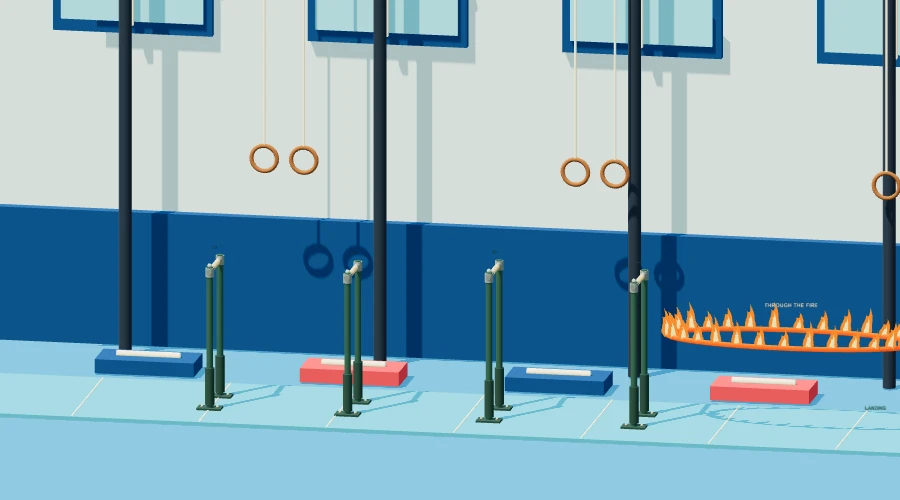
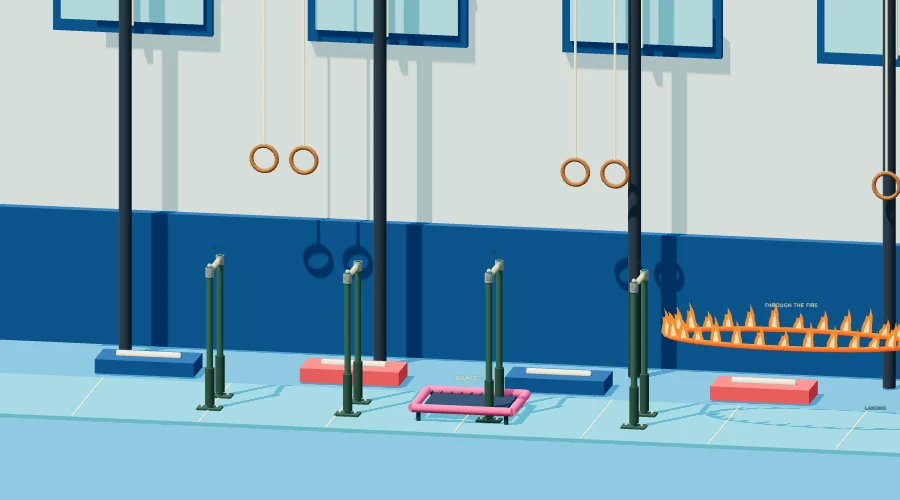
Turn sandbox courses into continuous trampoline playgrounds

Changed region(s): [[0.4356, 0.75, 0.5911, 0.87]]

diff --git a/physics.js b/physics.js
@@ -6,7 +6,7 @@ const KAARI_MAPS = [
   {id:'city',challenge:'moving',targets:[{dx:180,height:140,r:165,motion:65}],name:'Rooftop Run',description:'7 rooftops · moving fire ring',points:[[180,210],[410,190],[655,215],[915,180],[1190,205],[1450,185],[1715,210]],landing:420,colors:['#aaa9db','#c4bfe5','#8298ba','#87819d','#535774']},
   {id:'harbor',challenge:'stars',targets:[{dx:150,height:180,r:175},{dx:230,height:95,r:175}],mode:'dive',shore:525,terrain:[[-6000,45],[0,60],[180,85],[310,65],[450,120],[525,120]],name:'Pebble Cove',description:'Low granite ledge · two sky stars',points:[[180,80],[450,95]],landing:2100,colors:['#a9d6de','#c8e5e5','#6c9baa','#93aeb2','#536d79']},
   {id:'alpine',mode:'dive',shore:550,terrain:[[-6000,300],[0,650],[180,890],[340,930],[480,980],[550,980]],name:'Alpine Lake',description:'Giant mountain face · deep glacial lake',points:[[180,50],[480,35]],landing:4000,colors:['#c7e3f6','#e1edf6','#b8d3e3','#e6edf0','#8195ac']},
-  {id:'gym',challenge:'hoop',targets:[{dx:150,height:130,r:175}],name:'Flip Academy',description:'Indoor gymnastics · your first fire ring',points:[[180,220],[375,220],[575,210],[780,215]],landing:440,colors:['#253b65','#70ccda','#eaf5fa','#4784b9','#1c4164']},
+  {id:'gym',trampolines:[{x:470,w:140,height:22,power:650,forward:260}],challenge:'hoop',targets:[{dx:150,height:130,r:175}],name:'Flip Academy',description:'Indoor gymnastics · your first fire ring',points:[[180,220],[375,220],[575,210],[780,215]],landing:440,colors:['#253b65','#70ccda','#eaf5fa','#4784b9','#1c4164']},
   {id:'desert',challenge:'hoop',targets:[{dx:180,height:145,r:180}],name:'Dune Dash',description:'9 bars · desert ruins · fire-ring finish',points:[[180,220],[400,210],[625,205],[855,220],[1090,190],[1330,210],[1575,190],[1820,200],[2070,210]],landing:470,colors:['#ffcf87','#e8b75a','#f5cb7e','#d6a24d','#a97539']},
   {id:'sauna',challenge:'window',targets:[{dx:-10,height:390,r:125,axis:'x'}],mode:'dive',shore:560,terrain:[[-6000,85],[0,150],[180,220],[450,220],[560,220]],name:'Sauna Escape',description:'Wood-fired sauna · out the window · into the lake',points:[[180,90],[450,80]],landing:2700,colors:['#6d9baa','#c9dfd8','#a8c8b9','#7e9d86','#3e625f']},
   {id:'moon',gravity:.48,challenge:'moving',targets:[{dx:200,height:180,r:185,motion:70}],name:'Moon Motel',description:'0.48× gravity · moon craters · orbital fire ring',points:[[180,200],[475,170],[790,195],[1115,165],[1450,200]],landing:620,colors:['#171b43','#97a7cb','#c6c4e6','#8a88ab','#414263']},
@@ -14,9 +14,9 @@ const KAARI_MAPS = [
 ];
 // Completion rewards: free-play layouts keep their own stable IDs.
 KAARI_MAPS.push(
- {...KAARI_MAPS[0],id:'playground',theme:'garden',sandboxOnly:true,name:'Endless Recess',description:'Sandbox · 12 bars · build your own trick lines',points:Array.from({length:12},(_,i)=>[180+i*210,190+(i%3)*15]),landing:700},
- {...KAARI_MAPS[5],id:'bigair',theme:'alpine',sandboxOnly:true,name:'Cloud Drop',description:'Sandbox · enormous cliff · no required route',shore:590,terrain:[[-6000,380],[0,750],[180,1140],[480,1200],[590,1200]],points:[[180,60],[480,40]],landing:5500},
- {...KAARI_MAPS[9],id:'orbit',theme:'moon',sandboxOnly:true,name:'Orbit Playground',description:'Sandbox · 0.35× gravity · float and experiment',gravity:.35,challenge:undefined,targets:[],points:[[180,210],[510,190],[860,205],[1230,175],[1610,200],[1990,190]],landing:950}
+ {...KAARI_MAPS[0],id:'playground',theme:'garden',sandboxOnly:true,name:'Endless Recess',description:'Sandbox · trampolines, vault boxes and moving bars',points:[[180,220],[400,180],[680,125],[990,200],[1280,110],[1600,190],[1930,155]],boxes:[{x:740,w:130,height:105},{x:1700,w:160,height:150}],trampolines:[{x:470,w:170,height:22,power:720,forward:280},{x:1100,w:180,height:22,power:800,forward:300},{x:2150,w:180,height:22,power:730,forward:-300}],movingBars:[{index:2,dx:75,dy:30,speed:.8},{index:4,dx:100,dy:60,speed:.65}],landing:1100},
+ {...KAARI_MAPS[5],id:'bigair',theme:'alpine',sandboxOnly:true,name:'Cloud Drop',description:'Sandbox · enormous cliff · no required route',shore:590,terrain:[[-6000,380],[0,750],[180,1140],[480,1200],[590,1200]],points:[[180,60],[480,40]],boxes:[{x:20,w:90,height:80}],trampolines:[{x:330,w:125,height:22,power:760,forward:280}],landing:5500},
+ {...KAARI_MAPS[9],id:'orbit',theme:'moon',sandboxOnly:true,name:'Orbit Playground',description:'Sandbox · 0.35× gravity · float and experiment',gravity:.35,challenge:undefined,targets:[],points:[[180,210],[510,150],[860,205],[1230,120],[1610,200],[1990,190]],boxes:[{x:650,w:120,height:130},{x:1450,w:180,height:180}],trampolines:[{x:310,w:150,height:22,power:440,forward:210},{x:1060,w:160,height:22,power:500,forward:230}],movingBars:[{index:1,dx:70,dy:50,speed:.5},{index:3,dx:100,dy:65,speed:.4}],landing:1200}
 );
 const K_TAU=Math.PI*2,K_G=720,K_FLOOR=475;
 const clamp=(n,min,max)=>Math.max(min,Math.min(max,n));
@@ -127,10 +127,11 @@ class KaariPhysics {
   constructor(mapIndex=0){this.characterId='rookie';this.reset(mapIndex);}
   get character(){return JUMPBAR_CHARACTERS.find(c=>c.id===this.characterId)||JUMPBAR_CHARACTERS[0];}
   reset(mapIndex=this.mapIndex,{sandbox=false}={}){
-    this.sandbox=!!sandbox;
+    this.sandbox=!!sandbox||!!KAARI_MAPS[mapIndex]?.sandboxOnly;
     this.mapIndex=clamp(mapIndex,0,KAARI_MAPS.length-1);this.map=KAARI_MAPS[this.mapIndex];this.gravity=K_G*(this.map.gravity||1);this.bars=this.map.points.map(([x,y])=>({x,y:this.map.mode==='dive'?K_FLOOR-terrainHeight(this.map,x)-160-(220-y)*.08:y+55}));this.mat={x:this.bars.at(-1).x+65,w:this.map.landing+80};
     this.water=this.map.mode==='dive';this.cliffY=K_FLOOR-terrainHeight(this.map,200);this.splash=null;
     if(this.water)this.mat.x=this.map.shore;
+    this.boxes=(this.map.boxes||[]).map(b=>({...b,top:K_FLOOR-(this.water?terrainHeight(this.map,b.x):0)-b.height}));this.trampolines=(this.map.trampolines||[]).map(t=>({...t,top:K_FLOOR-(this.water?terrainHeight(this.map,t.x):0)-t.height,pulse:0}));this.bars.forEach(b=>Object.assign(b,{baseX:b.x,baseY:b.y,vx:0,vy:0}));this.checkpoint=0;
     this.courseTime=0;this.objectives=(this.sandbox?[]:this.map.targets||[]).map(o=>({...o,x:this.mat.x+o.dx,y:K_FLOOR-o.height,done:false}));
     const b=this.bars[0],angle=-.85;
     this.player={x:b.x+Math.sin(angle)*76,y:b.y+Math.cos(angle)*76,vx:0,vy:0,angle,omega:0,radius:76,tuck:0,bar:0,cooldown:0,momentum:0,twist:0,twistSpeed:0};
@@ -156,8 +157,8 @@ class KaariPhysics {
       this.groundHeld=false;this.groundCharge=0;
       if(quick){
         this.grounded=false;this.beginFlight();p.angle=0;p.momentum=0;p.vy=-530*this.character.bounce;p.cooldown=.12;
-        const target=this.bars.find((_,i)=>!this.visited.has(i))||{x:this.mat.x+80,y:surface-65};
-        p.vx=clamp((target.x-p.x)/.9,-240,240);p.y=surface-10-this.ragdoll.pose({...p,y:0}).footR.y;this.ragdoll.reset(p);
+        const target=this.sandbox?[...this.bars].sort((a,b)=>Math.abs(a.x-p.x)-Math.abs(b.x-p.x)).find(b=>Math.abs(b.x-p.x)>25)||this.bars[0]:this.bars.find((_,i)=>!this.visited.has(i))||{x:this.mat.x+80,y:surface-65};
+        p.vx=this.sandbox&&input.twist?Math.sign(input.twist)*230:clamp((target.x-p.x)/.9,-240,240);p.y=surface-10-this.ragdoll.pose({...p,y:0}).footR.y;this.ragdoll.reset(p);
         this.events.push({type:'bounce',label:'BOUNCE!',x:p.x,y:p.y});return;
       }
     }
@@ -165,11 +166,12 @@ class KaariPhysics {
     p.landingCompression=clamp((p.landingCompression||0)+this.landingVelocity*dt,0,.7);
     p.omega+=(this.landingAssisted?-42*p.angle-10*p.omega:Math.sin(p.angle)*this.gravity/65-1.5*p.omega)*dt;p.angle+=p.omega*dt;
     if(!this.landingAssisted&&Math.abs(p.angle)>.45){this.grounded=false;this.finish(false);return;}
-    p.x+=p.vx*dt;p.vx*=Math.exp(-9*dt);p.vy=0;p.specialPose=null;p.onGround=true;
+    if(this.sandbox&&input.twist)p.vx=Number(input.twist)*120;
+    const oldX=p.x;p.x+=p.vx*dt;const newSurface=this.groundY(p.x);if(newSurface<surface-10){p.x=oldX;p.vx=0;}else if(newSurface>surface+10){this.grounded=false;this.beginFlight();p.vy=0;return;}p.vx*=Math.exp(-9*dt);p.vy=0;p.specialPose=null;p.onGround=true;
     const footY=this.ragdoll.pose({...p,y:0}).footR.y;p.y=surface-5-footY;
     this.ragdoll.step(dt,p,null,surface);
   }
-  onLandingMat(){if(this.water)return false;const pose=this.ragdoll.pose(this.player);return ['footL','footR'].every(id=>pose[id].x>=this.mat.x&&pose[id].x<=this.mat.x+this.mat.w);}
+  onLandingMat(){if(this.sandbox||this.water)return false;const pose=this.ragdoll.pose(this.player);return ['footL','footR'].every(id=>pose[id].x>=this.mat.x&&pose[id].x<=this.mat.x+this.mat.w);}
   collideBars(previous,dt){
     const p=this.player,end=this.ragdoll.pose(p),start=this.ragdoll.pose(previous,previous.bar>=0?this.bars[previous.bar]:null),travel=Math.hypot(p.x-previous.x,p.y-previous.y)+Math.abs(p.angle-previous.angle)*80;
     const steps=Math.max(1,Math.min(96,Math.ceil(travel/4)));
@@ -191,7 +193,21 @@ class KaariPhysics {
     }
     return false;
   }
-  groundY(x){return this.water&&x<this.mat.x?K_FLOOR-terrainHeight(this.map,x):K_FLOOR;}
+  groundY(x){let y=this.water&&x<this.mat.x?K_FLOOR-terrainHeight(this.map,x):K_FLOOR;for(const b of this.boxes||[])if(x>=b.x&&x<=b.x+b.w)y=Math.min(y,b.top);return y;}
+  updatePlayground(dt){
+    for(const b of this.bars){b.vx=0;b.vy=0;}
+    for(const m of this.map.movingBars||[]){const b=this.bars[m.index],a=this.courseTime*m.speed,oldX=b.x,oldY=b.y;b.x=b.baseX+m.dx*Math.sin(a);b.y=b.baseY+(m.dy||0)*Math.sin(a*.8);b.vx=dt?(b.x-oldX)/dt:0;b.vy=dt?(b.y-oldY)/dt:0;}
+    for(const t of this.trampolines)t.pulse=Math.max(0,t.pulse-dt*3);
+  }
+  bounceTrampoline(previous){
+    const p=this.player;if(p.bar>=0||p.vy<=0)return false;const before=this.ragdoll.pose(previous),now=this.ragdoll.pose(p);
+    for(const t of this.trampolines){const oldBottom=Math.max(...Object.values(before).map(q=>q.y)),bottom=Math.max(...Object.values(now).map(q=>q.y));if(oldBottom>t.top+8||bottom<t.top)continue;
+      const f=clamp((t.top-oldBottom)/(bottom-oldBottom||1),0,1),x=previous.x+(p.x-previous.x)*f;if(x<t.x-8||x>t.x+t.w+8)continue;
+      this.settleCombo(true);this.grounded=false;this.beginFlight();p.x=x;p.y-=bottom-t.top+6;p.vy=-t.power;p.vx=t.forward;p.momentum=clamp(p.momentum*.65+(t.forward<0?-1:1)*1.6,-8,8);p.cooldown=.12;t.pulse=1;this.ragdoll.reset(p);this.events.push({type:'bounce',label:'BOING!',x,y:t.top});return true;
+    }return false;
+  }
+  respawnSandbox(){const score=this.score,best=this.bestJump,character=this.characterId,unlocked=this.deathDiveUnlocked,index=this.checkpoint;this.reset(this.mapIndex,{sandbox:true});this.score=score;this.bestJump=best;this.characterId=character;this.deathDiveUnlocked=unlocked;this.checkpoint=index;const b=this.bars[index];Object.assign(this.player,{bar:index,x:b.x+Math.sin(-.85)*76,y:b.y+Math.cos(-.85)*76});this.visited=new Set([index]);this.ragdoll.reset(this.player);this.events.push({type:'respawn'});}
+
   inertia(tuck){return 1-.65*tuck;}
   settleCombo(validTarget){
     if(validTarget)this.bestJump=Math.max(this.bestJump,this.flightPoints);
@@ -208,7 +224,7 @@ class KaariPhysics {
   }
   release(){
     const p=this.player;if(p.bar<0||this.ended)return;
-    p.vx=Math.cos(p.angle)*p.radius*p.omega;p.vy=-Math.sin(p.angle)*p.radius*p.omega;
+    const b=this.bars[p.bar];p.vx=Math.cos(p.angle)*p.radius*p.omega+(b.vx||0);p.vy=-Math.sin(p.angle)*p.radius*p.omega+(b.vy||0);
     p.momentum=p.omega*this.inertia(p.tuck);p.bar=-1;p.cooldown=.22;this.flightPoints=0;this.airRotation=0;this.turns=0;this.twistTurns=0;this.comboAwarded=false;p.twist=0;p.twistSpeed=0;
     this.beginFlight();
   }
@@ -235,6 +251,7 @@ class KaariPhysics {
   step(dt,input={}){
     const p=this.player;if(this.ended){
       this.elapsedAfterEnd+=dt;
+      if(this.sandbox&&this.elapsedAfterEnd>(this.splash?2.6:1.6)){this.respawnSandbox();return;}
       if(this.splash){
         // Continue through the surface, then let water drag and buoyancy arrest the dive.
         p.vx*=Math.exp(-2.8*dt);p.vy+=(32+(K_FLOOR+100-p.y)*1.5)*dt;p.vy*=Math.exp(-3*dt);
@@ -248,7 +265,7 @@ class KaariPhysics {
       return;
     }
     if(!this.active){if(input.grip||input.tuck)this.active=true;else return;}
-    this.courseTime+=dt;const previous={...p},previousX=p.x,previousY=p.y;
+    this.courseTime+=dt;this.updatePlayground(dt);const previous={...p},previousX=p.x,previousY=p.y;
     const airborne=p.bar<0&&!this.grounded;
     const bomb=airborne&&this.characterId==='bruno'&&!!input.bomb;
     const grab=airborne&&!!input.grab&&!input.bomb&&!input.dive;
@@ -309,7 +326,7 @@ class KaariPhysics {
         const hand=this.ragdoll.pose({...p,tuck:0,specialPose:null}).handR;
         for(let i=0;i<this.bars.length;i++){
           const b=this.bars[i];if(Math.hypot(hand.x-b.x,hand.y-b.y)>42)continue;
-          p.angle=Math.atan2(p.x-b.x,p.y-b.y);p.omega=(p.vx*Math.cos(p.angle)-p.vy*Math.sin(p.angle))/p.radius;p.bar=i;p.twist=0;p.twistSpeed=0;p.x=b.x+Math.sin(p.angle)*p.radius;p.y=b.y+Math.cos(p.angle)*p.radius;
+          p.angle=Math.atan2(p.x-b.x,p.y-b.y);p.omega=((p.vx-(b.vx||0))*Math.cos(p.angle)-(p.vy-(b.vy||0))*Math.sin(p.angle))/p.radius;p.bar=i;this.checkpoint=i;p.twist=0;p.twistSpeed=0;p.x=b.x+Math.sin(p.angle)*p.radius;p.y=b.y+Math.cos(p.angle)*p.radius;
           p.specialPose=null;
           this.settleCombo(!this.visited.has(i));
           if(!this.visited.has(i)){this.visited.add(i);this.score+=100;this.events.push({type:'catch',index:i,x:b.x,y:b.y});}break;
@@ -330,6 +347,8 @@ class KaariPhysics {
         }else if(vertical){p.x=o.x-15;p.vx=-Math.abs(p.vx)*.2;this.ragdoll.reset(p);this.finish(false);return;}
       }
     }
+    for(const b of this.boxes){const bottom=K_FLOOR-(this.water?terrainHeight(this.map,b.x):0);if(previous.y+45>b.top+8&&p.y-42<bottom){if(previous.x+12<=b.x&&p.x+12>=b.x){p.x=b.x-13;p.vx=-Math.abs(p.vx)*.2;}else if(previous.x-12>=b.x+b.w&&p.x-12<=b.x+b.w){p.x=b.x+b.w+13;p.vx=Math.abs(p.vx)*.2;}}}
+    if(this.bounceTrampoline(previous))return;
     const surface=this.groundY(p.x);
     this.ragdoll.step(dt,p,p.bar>=0?this.bars[p.bar]:null,surface,this.gravity);
     if(p.bar<0){
@@ -338,7 +357,7 @@ class KaariPhysics {
         const inWater=p.x>=this.mat.x&&p.x<=this.mat.x+this.mat.w;
         this.finish(inWater&&(this.sandbox||this.visited.size===this.bars.length));
       }else if(touching.length){
-        const feet=[joints.footL,joints.footR],onMat=!this.water&&feet.every(q=>q.x>=this.mat.x&&q.x<=this.mat.x+this.mat.w);
+        const feet=[joints.footL,joints.footR],onMat=!this.sandbox&&!this.water&&feet.every(q=>q.x>=this.mat.x&&q.x<=this.mat.x+this.mat.w);
         const feetFirst=onMat?touching.every(([id])=>id.startsWith('foot')||id.startsWith('knee'))&&Math.cos(p.angle)>.25&&Math.abs(p.omega)<12&&p.tuck<.8:touching.every(([id])=>id.startsWith('foot'))&&Math.abs(Math.atan2(Math.sin(p.angle),Math.cos(p.angle)))<.16&&Math.abs(p.omega)<1.2&&Math.abs(p.vx)<100&&p.vy<430&&p.tuck<.25;
         if(feetFirst&&onMat&&(this.sandbox||this.visited.size===this.bars.length))this.finish(true);
         else if(feetFirst){

diff --git a/game.js b/game.js
@@ -2,9 +2,9 @@
 const canvas=document.getElementById('game');
 const ui=Object.fromEntries(['menu','hud','touch','pause','result','guide','boards','score','progress','menu-best','start-hint','result-label','result-title','result-score','result-copy'].map(id=>[id,document.getElementById(id)]));
 const game=new KaariPhysics(),keys=new Set(),touchKeys=new Set();
-let gameMode='story',lastStoryMap=0,lastSandboxMap=11;
-function courseList(){return gameMode==='sandbox'?KAARI_MAPS.map((m,map)=>({map,title:m.name,story:m.description,goal:0})):JUMPBAR_CHAPTERS;}
-function canPlayMap(map){return gameMode==='sandbox'?campaign.sandboxUnlocked:campaign.available(map);}
+let gameMode='story';
+function courseList(){return [...KAARI_MAPS.flatMap((m,map)=>m.sandboxOnly?[{map,title:m.name,story:m.description,goal:0}]:[]),...JUMPBAR_CHAPTERS];}
+function canPlayMap(map){return KAARI_MAPS[map].sandboxOnly?campaign.sandboxUnlocked:campaign.available(map);}
 const touchPointers=new Map();
 const touchMode=navigator.maxTouchPoints>0||matchMedia('(any-pointer: coarse)').matches;
 document.body.dataset.touch=String(touchMode);
@@ -21,8 +21,8 @@ function updateCampaignMenu(){
   document.getElementById('character-ability').textContent=c.ability+' · '+c.instruction;
   const buy=document.getElementById('buy-character');buy.hidden=owned;buy.disabled=campaign.data.coins<c.price;buy.textContent=buy.disabled?'◈ '+c.price+' · need '+(c.price-campaign.data.coins):'BUY · ◈ '+c.price;
   document.getElementById('chapter-title').textContent=chapter.title;
-  document.getElementById('chapter-goal').textContent=gameMode==='sandbox'?'FREE PLAY · NO SCORE GATE':unlocked?'TARGET '+chapter.goal+' PTS · '+('★'.repeat(campaign.stars(game.mapIndex))||'☆☆☆'):'LOCKED · finish the previous chapter';
-  document.getElementById('chapter-story').textContent=chapter.story;const modeButton=document.getElementById('mode-toggle');modeButton.disabled=!campaign.sandboxUnlocked;modeButton.textContent=gameMode==='sandbox'?'← STORY':campaign.sandboxUnlocked?'SANDBOX →':'SANDBOX 🔒';modeButton.setAttribute('aria-label',campaign.sandboxUnlocked?'Switch between story and sandbox':'Complete every story chapter to unlock sandbox');document.getElementById('mode-name').textContent=gameMode==='sandbox'?'SANDBOX':'STORY';
+  document.getElementById('chapter-goal').textContent=gameMode==='sandbox'?'FREE PLAY · NO FINISH LINE':unlocked?'TARGET '+chapter.goal+' PTS · '+('★'.repeat(campaign.stars(game.mapIndex))||'☆☆☆'):(gameMode==='sandbox'?'LOCKED · complete the story':'LOCKED · finish the previous chapter');
+  document.getElementById('chapter-story').textContent=chapter.story;document.getElementById('mode-name').textContent=gameMode==='sandbox'?'SANDBOX':'STORY';
   const play=document.getElementById('play');play.disabled=!owned||!unlocked;play.textContent=!unlocked?'LOCKED':!owned?'SELECT OWNED':gameMode==='sandbox'?'FREE PLAY ↗':campaign.cleared(game.mapIndex)?'PLAY AGAIN ↗':'START CHAPTER ↗';
 }
 document.getElementById('buy-character').onclick=()=>{if(campaign.buy(selectedCharacter)){saveCampaign();selectCharacter(selectedCharacter);}};
@@ -95,15 +95,15 @@ function showCombo(event){
   }
 }
 for(let i=0;i<12;i++)document.getElementById('combo-sparks').appendChild(document.createElement('i'));
-function sync(){ui.score.textContent=game.score;ui.progress.textContent=`${game.visited.size} / ${game.bars.length}`;ui['menu-best'].textContent=game.sandbox?'FREE PLAY':`BEST ${best}`;document.getElementById('hud-goal').textContent=(game.sandbox?'SANDBOX':`/ ${campaign.chapter(game.mapIndex).goal} PTS`)+(game.objectives.length?' · '+(game.map.challenge==='stars'?'STARS ':game.map.challenge==='window'?'WINDOW ':'FIRE ')+game.objectives.filter(o=>o.done).length+'/'+game.objectives.length:'')+(game.map.gravity?' · '+game.map.gravity+'× GRAVITY':'');}
+function sync(){ui.score.textContent=game.score;ui.progress.textContent=game.sandbox?'∞':`${game.visited.size} / ${game.bars.length}`;ui['menu-best'].textContent=game.sandbox?'FREE PLAY':`BEST ${best}`;document.getElementById('hud-goal').textContent=(game.sandbox?'SANDBOX':`/ ${campaign.chapter(game.mapIndex).goal} PTS`)+(game.objectives.length?' · '+(game.map.challenge==='stars'?'STARS ':game.map.challenge==='window'?'WINDOW ':'FIRE ')+game.objectives.filter(o=>o.done).length+'/'+game.objectives.length:'')+(game.map.gravity?' · '+game.map.gravity+'× GRAVITY':'');}
 function updateMapCarousel(){
   const courses=courseList(),count=courses.length,current=courses.findIndex(c=>c.map===game.mapIndex);
   document.querySelectorAll('[data-map]').forEach(button=>{
     const offset=Number(button.dataset.chapter)-current;
-    const map=Number(button.dataset.map),locked=!canPlayMap(map);button.classList.toggle('locked',locked);button.querySelector('.map-info small').textContent=locked?'LOCKED':gameMode==='sandbox'?(KAARI_MAPS[map].sandboxOnly?'BONUS MAP · FREE PLAY':'FREE PLAY'):campaign.cleared(map)?'★'.repeat(campaign.stars(map))+' · COMPLETE':'TARGET '+campaign.chapter(map).goal+' PTS';
+    const map=Number(button.dataset.map),locked=!canPlayMap(map);button.classList.toggle('locked',locked);button.querySelector('.map-info small').textContent=locked?'LOCKED':KAARI_MAPS[map].sandboxOnly?'FREE PLAY':campaign.cleared(map)?'★'.repeat(campaign.stars(map))+' · COMPLETE':'TARGET '+campaign.chapter(map).goal+' PTS';
     button.dataset.offset=offset;button.setAttribute('aria-pressed',String(offset===0));button.tabIndex=Math.abs(offset)<=2?0:-1;button.setAttribute('aria-hidden',String(Math.abs(offset)>2));
   });
-  document.getElementById('map-counter').textContent=`${String(current+1).padStart(2,'0')} / ${String(count).padStart(2,'0')}`;
+  const section=courses.filter(c=>!!KAARI_MAPS[c.map].sandboxOnly===game.sandbox);document.getElementById('map-counter').textContent=`${String(section.findIndex(c=>c.map===game.mapIndex)+1).padStart(2,'0')} / ${String(section.length).padStart(2,'0')}`;
   document.getElementById('map-selected-name').textContent=game.map.name;document.getElementById('map-prev').disabled=current===0;document.getElementById('map-next').disabled=current===count-1;updateCampaignMenu();
 }
 function cycleMap(direction){const courses=courseList(),current=courses.findIndex(c=>c.map===game.mapIndex);reset(courses[clamp(current+direction,0,courses.length-1)].map);}
@@ -112,12 +112,11 @@ function buildCourseCards(){mapTrack.replaceChildren();for(const [chapterIndex,c
   const index=chapter.map,map=KAARI_MAPS[index];
   const button=document.createElement('button');button.className=`map-card ${map.id}`;button.dataset.map=index;button.dataset.chapter=chapterIndex;button.type='button';
   button.setAttribute('aria-label',`${map.name}, ${map.description}`);
-  button.innerHTML=`<span class="map-art"><img src="assets/maps/${map.id}.webp" alt="${map.name} course preview" loading="lazy"><b>${String(chapterIndex+1).padStart(2,'0')}</b></span><span class="map-info"><strong>${map.name}</strong><small>${map.description.split(' · ').slice(0,2).join(' · ')}</small></span>`;
+  button.innerHTML=`<span class="map-art"><img src="assets/maps/${map.id}.webp" alt="${map.name} course preview" loading="lazy"><b>${map.sandboxOnly?'∞':String(JUMPBAR_CHAPTERS.findIndex(c=>c.map===index)+1).padStart(2,'0')}</b></span><span class="map-info"><strong>${map.name}</strong><small>${map.description.split(' · ').slice(0,2).join(' · ')}</small></span>`;
   button.onclick=()=>{if(performance.now()>mapDrag.ignoreUntil)reset(index);};mapTrack.appendChild(button);
 }
 }
 buildCourseCards();
-document.getElementById('mode-toggle').onclick=()=>{if(!campaign.sandboxUnlocked)return;if(gameMode==='story'){lastStoryMap=game.mapIndex;gameMode='sandbox';}else{lastSandboxMap=game.mapIndex;gameMode='story';}buildCourseCards();reset(gameMode==='sandbox'?lastSandboxMap:lastStoryMap);};
 const mapDrag={id:null,startX:0,startY:0,dx:0,dragging:false,ignoreUntil:0};
 mapTrack.addEventListener('pointerdown',e=>{if(e.pointerType==='mouse'&&e.button!==0||mapDrag.id!==null)return;mapDrag.id=e.pointerId;mapDrag.startX=e.clientX;mapDrag.startY=e.clientY;mapDrag.dx=0;mapDrag.dragging=false;});
 mapTrack.addEventListener('pointermove',e=>{if(e.pointerId!==mapDrag.id)return;mapDrag.dx=e.clientX-mapDrag.startX;if(!mapDrag.dragging&&Math.abs(mapDrag.dx)>8&&Math.abs(mapDrag.dx)>Math.abs(e.clientY-mapDrag.startY)){mapDrag.dragging=true;mapTrack.setPointerCapture(e.pointerId);mapTrack.classList.add('dragging');}if(mapDrag.dragging)mapTrack.style.setProperty('--drag',`${clamp(mapDrag.dx,-100,100)}px`);});
@@ -126,6 +125,7 @@ for(const type of ['pointerup','pointercancel','lostpointercapture'])mapTrack.ad
 for(const [id,direction] of [['map-prev',-1],['map-next',1]]){const button=document.getElementById(id);button.addEventListener('pointerup',e=>{if(e.button!==0)return;e.preventDefault();cycleMap(direction);});button.onclick=e=>{if(e.detail===0)cycleMap(direction);};}
 mapTrack.addEventListener('keydown',e=>{if(['ArrowLeft','ArrowRight'].includes(e.code)){e.preventDefault();e.stopPropagation();cycleMap(e.code==='ArrowRight'?1:-1);}});
 function reset(mapIndex=game.mapIndex){
+  gameMode=KAARI_MAPS[mapIndex].sandboxOnly?'sandbox':'story';
   if(typeof leaderboardService!=='undefined')leaderboardService.reset();sound.stop();clearInput();clearCombo();game.reset(mapIndex,{sandbox:gameMode==='sandbox'});game.characterId=campaign.data.equipped;game.deathDiveUnlocked=campaign.trickUnlocked('deathdive');document.querySelector('[data-key=KeyB]').hidden=game.characterId!=='bruno';document.querySelector('[data-key=KeyF]').hidden=!game.deathDiveUnlocked;readBest();trail=[];particles=[];camera=0;cameraSpan=baseSpan();cameraY=cameraSpan/2-floorMargin(cameraSpan);ui['start-hint'].hidden=false;ui['start-hint'].innerHTML=initialStartHint;
   if(touchMode)followMobilePlayer(0,true);
   updateMapCarousel();sync();
@@ -145,8 +145,10 @@ function step(dt){
   document.querySelector('.special-control').classList.toggle('spent',game.specialAwarded);
   for(const event of game.events){
     sound.event(event,game);
+    if(event.type==='respawn'){clearInput();trail=[];particles=[];ui['start-hint'].innerHTML=initialStartHint;ui['start-hint'].hidden=false;if(touchMode)followMobilePlayer(0,true);sync();continue;}
     if(event.type==='chain'||event.type==='chainBreak'){showCombo(event);
     }else if(event.type==='finish'){
+      if(game.sandbox){clearInput();continue;}
       if(typeof leaderboardService!=='undefined')leaderboardService.finish();
       const reward=campaign.claim(game);saveCampaign();readBest();
       ui['result-label'].textContent=event.splash?(!event.success?'VISIT BOTH BARS':event.splash.kind==='bomb'?'CANNONBALL +200':event.splash.kind==='deathdive'?'DEATH DIVE +200':event.splash.clean?'CLEAN DIVE +200':'SPLASH!'):event.success?'CLEAN LANDING':event.crash.quip;ui['result-title'].textContent=event.splash?(event.success?'SPLASH!':'MISSED A BAR!'):event.success?'STUCK IT!':event.crash.title;if(!event.success&&game.visited.size===game.bars.length&&!game.objectives.every(o=>o.done)){ui['result-label'].textContent='SPECIAL OBJECTIVE MISSED';ui['result-title'].textContent=game.map.challenge==='stars'?'COLLECT ALL STARS!':game.map.challenge==='window'?'AIM FOR THE WINDOW!':'THROUGH THE FIRE!';}ui['result-score'].textContent=game.score;ui['result-copy'].textContent=`${game.visited.size} / ${game.bars.length} bars / best combo ${game.maxChain} · best ${best}`;
@@ -160,14 +162,13 @@ function step(dt){
         if(reward.newChapter&&campaign.trickUnlocked('deathdive')&&!campaign.data.tutorialsSeen.includes('deathdive'))document.getElementById('result-unlock').textContent+=' NEW TRICK: Death dive!';
         updateCampaignMenu();
       }
-      if(game.sandbox){document.getElementById('result-reward').textContent='SANDBOX';document.getElementById('result-unlock').textContent='Free play · experiment with your next trick line.';document.getElementById('next-chapter').hidden=true;}
       if(event.splash){particles.push({x:event.splash.x,y:K_FLOOR-60,label:!event.success?'SPLASH!':'+'+event.splash.points+' SPLASH!',life:1.6});clearInput();ui.touch.hidden=true;}
       if(event.crash){particles.push({x:event.crash.x,y:K_FLOOR-95,label:event.crash.sound,life:1.8});clearInput();ui.touch.hidden=true;}
     }else{const label=event.type==='special'?`+${event.points} ${event.label}`:event.type==='bounce'||event.type==='ground'||event.type==='collision'?event.label:event.type==='flip'?`+250 ${event.label}`:event.type==='twist'?`+200 ${event.label}`:event.type==='combo'?`COMBO +150 · ${event.label}`:'+100';if(event.type==='combo')particles=[];particles.push({x:event.x,y:event.y-40,label,life:event.type==='combo'?2:1.5});if(event.type==='catch')trail=[];}
     sync();
   }
   game.events=[];
-  if(game.ended&&game.elapsedAfterEnd>(game.splash?game.splash.duration:game.crash?game.crash.duration:1.1))setScreen('result');
+  if(!game.sandbox&&game.ended&&game.elapsedAfterEnd>(game.splash?game.splash.duration:game.crash?game.crash.duration:1.1))setScreen('result');
   const p=game.player;
   if(p.bar<0&&!game.ended){trail.push({x:p.x,y:p.y});if(trail.length>30)trail.shift();}
   if(touchMode){followMobilePlayer(dt);return;}

diff --git a/renderer.js b/renderer.js
@@ -390,7 +390,7 @@ class KaariRenderer {
       for(let i=0;i<12;i++)this.ball(i*240-650,-45,-680-(i%3)*100,150+(i%4)*20,hill,this.world,1.9,1,1.5);
     }
     const stone=this.material('#c3c8b8'),dark=this.material('#50665f');
-    for(let i=0;i<(this.mapIndex<2?Math.ceil(length/240)+5:0);i++){
+    for(let i=0;i<((game.map.theme||game.map.id)==='garden'?Math.ceil(length/240)+5:0);i++){
       const x=i*250-350,z=-190-(i%3)*65;this.makeTree(x,z,135+(i%3)*25,coast?'coast':sunset?'sunset':'garden');
       if(i%2===0){this.block(x+75,8,-120,63,6,23,stone);for(const dx of [-22,22])this.block(x+75+dx,0,-120,4,17,20,dark);}
     }
@@ -399,10 +399,20 @@ class KaariRenderer {
     this.buildLandmarks(game,length);
     }
     const steel=this.material('#d6e4df',.27,.7),frame=this.material(coast?'#40747e':sunset?'#715f56':'#476f60',.4,.35),rubber=this.material('#324d45'),bolt=this.material('#f4e7c4',.3,.65);
-    this.barIndicators=[];
+    this.trampolineMeshes=game.trampolines.map(t=>{
+      const x=t.x+t.w/2,y=K_FLOOR-t.top,metal=this.material('#516b83',.35,.7),pad=this.material('#eb5d91'),net=this.material('#263a51');
+      for(const dx of [-t.w/2+8,t.w/2-8])for(const z of [-53,53])this.rod([x+dx,y-22,z],[x+dx,y,z],3,metal);
+      for(const z of [-56,56])this.rod([x-t.w/2,y,z],[x+t.w/2,y,z],6,pad);
+      for(const dx of [-t.w/2,t.w/2])this.rod([x+dx,y,-56],[x+dx,y,56],6,pad);
+      for(let n=0;n<Math.floor(t.w/14);n++)for(const z of [-50,50])this.rod([t.x+8+n*14,y,z],[t.x+8+n*14,y,z*.77],1,metal);
+      const bed=this.block(x,y-2,0,t.w-22,3,82,net);const arrow=this.label(t.forward>0?'BOUNCE →':'← BOUNCE','#fff1b8',17);arrow.position.set(x,y+32,0);this.world.add(arrow);return {bed,y};
+    });
+    for(const b of game.boxes){const wood=this.material('#bd874e'),trim=this.material('#ffdc89');this.block(b.x+b.w/2,K_FLOOR-b.top-b.height/2,0,b.w,b.height,115,wood);this.block(b.x+b.w/2,K_FLOOR-b.top,0,b.w+4,5,119,trim);for(let h=20;h<b.height;h+=25)this.block(b.x+b.w/2,K_FLOOR-b.top-b.height+h,59,b.w-8,3,2,trim);}
+    this.barGroups=[];this.barIndicators=[];
     game.bars.forEach((b,i)=>{
+      const mark=this.world.children.length,moving=(game.map.movingBars||[]).find(m=>m.index===i);
       const y=K_FLOOR-b.y;
-      for(const z of [-38,38]){
+      if(!moving)for(const z of [-38,38]){
         const base=game.water?terrainHeight(game.map,b.x):0;
         this.rod([b.x,base+2,z],[b.x,y+6,z],4.5,frame);
         this.block(b.x,base+3,z,34,6,22,rubber);
@@ -414,6 +424,8 @@ class KaariRenderer {
       const gripMat=this.material('#d8b98a',.88);this.rod([b.x,y,-20],[b.x,y,20],3.9,gripMat);
       const indicator=this.ball(b.x,y+8,39,3.2,this.material('#a8b6ac'));this.barIndicators.push(indicator);
       const label=this.label(String(i+1).padStart(2,'0'),'#426158',12);label.position.set(b.x,y+25,0);this.world.add(label);
+      const group=new THREE.Group();for(const child of this.world.children.slice(mark))group.add(child);this.world.add(group);const entry={group,x:b.x,y:b.y,links:[]};this.barGroups.push(entry);
+      if(moving){for(const z of [-38,38])entry.links.push({mesh:this.rod([b.x,K_FLOOR-b.baseY+125,-65],[b.x,y,z],1.6,steel),z});this.rod([b.baseX-moving.dx-40,K_FLOOR-b.baseY+125,-65],[b.baseX+moving.dx+40,K_FLOOR-b.baseY+125,-65],5,frame);const tag=this.label('↔','#fff3ab',23);tag.position.set(b.x,y+60,0);group.add(tag);}
     });
     this.objectiveMeshes=game.objectives.map((o,i)=>{
       const group=new THREE.Group();this.world.add(group);group.userData.flames=[];
@@ -436,7 +448,7 @@ class KaariRenderer {
       }
       group.position.set(o.x,K_FLOOR-o.y,0);return group;
     });
-    if(game.water)return;
+    if(game.water||game.sandbox)return;
     const lane=this.material('#eaf0d4');
     const mat=game.mat,foam=this.material('#69a28f',.9),top=this.material('#95c5a4',.95);
     this.block(mat.x+mat.w/2,-9,0,mat.w,17,117,foam);this.block(mat.x+mat.w/2,0,0,mat.w-6,2,111,top);
@@ -448,6 +460,8 @@ class KaariRenderer {
     const inMenu=document.body.dataset.screen==='menu',time=performance.now()/1000;
     if(this.mapIndex!==game.mapIndex||this.sandbox!==game.sandbox)this.buildMap(game);
     this.drawWater(game,time);
+    this.barGroups.forEach((m,i)=>{const b=game.bars[i];m.group.position.set(b.x-m.x,m.y-b.y,0);for(const link of m.links)this.placeRod(link.mesh,[b.x,K_FLOOR-b.baseY+125,-65],[b.x,K_FLOOR-b.y,link.z],1.6);});
+    this.trampolineMeshes.forEach((m,i)=>{m.bed.position.y=m.y-2-Math.sin(game.trampolines[i].pulse*Math.PI)*10;});
     (this.objectiveMeshes||[]).forEach((group,i)=>{const o=game.objectives[i];group.position.set(o.x+(o.motion||0)*Math.sin(game.courseTime*1.4),K_FLOOR-o.y,0);group.visible=!o.done||o.axis==='x';for(const [n,f] of group.userData.flames.entries()){f.scale.y=23+(n%4)*4+Math.sin(time*11+n*2.1)*9;f.position.y=0;f.rotation.z=Math.sin(time*8+n)*.22;}});
     this.person.visible=true;
     if(game.splash&&!inMenu&&!this.mobile)focusY+=(Math.min(focusY,-30)-focusY)*Math.min(1,game.elapsedAfterEnd*3);
@@ -495,7 +509,7 @@ class KaariRenderer {
     }
     this.renderer.render(this.scene,this.camera);
     this.targetGuide.hidden=true;
-    if(this.mobile&&document.body.dataset.screen==='play'&&!game.ended){
+    if(this.mobile&&document.body.dataset.screen==='play'&&!game.ended&&!game.sandbox){
       const index=game.bars.findIndex((_,i)=>!game.visited.has(i));
       const objective=game.objectives.find(o=>!o.done);const target=index<0?(objective?{x:objective.x+(objective.motion||0)*Math.sin(game.courseTime*1.4),y:objective.y}:{x:game.mat.x+Math.min(500,game.mat.w/2),y:K_FLOOR-10}):game.bars[index];
       const v=new THREE.Vector3(target.x,K_FLOOR-target.y,0).project(this.camera);

diff --git a/physics.test.js b/physics.test.js
@@ -106,9 +106,10 @@ test('airborne tuck increases spin without changing the ballistic trajectory',()
   assert.ok(tucked.player.omega>straight.player.omega*2);assert.equal(straight.player.x,tucked.player.x);assert.equal(straight.player.y,tucked.player.y);
   assert.ok(Math.abs(tucked.player.omega*tucked.inertia(tucked.player.tuck)-3)<1e-10);
 });
-test('all map gaps and final landings are reachable from pumped launch states',()=>{
+test('all story map gaps and final landings are reachable from pumped launch states',()=>{
   const samples=launchSamples();
   for(let map=0;map<KAARI_MAPS.length;map++){
+    if(KAARI_MAPS[map].sandboxOnly)continue;
     const count=KAARI_MAPS[map].points.length;
     for(let bar=0;bar<count-1;bar++){
       let reachable=false;
@@ -183,7 +184,7 @@ test('air tuck folds hands to shins with bent elbows while bar tuck retains grip
 test('eight bar courses and six water courses with forgiving entries and clean-dive bonuses',()=>{
   assert.equal(KAARI_MAPS.filter(m=>m.mode!=='dive').length,8);
   assert.equal(KAARI_MAPS.filter(m=>m.mode==='dive').length,6);
-  for(const [index,map] of KAARI_MAPS.entries())if(map.mode==='dive'){
+  for(const [index,map] of KAARI_MAPS.entries())if(map.mode==='dive'&&!map.sandboxOnly){
     for(const angle of [0,Math.PI,Math.PI/2]){
       const g=new KaariPhysics(index);g.active=true;g.visited=new Set([0,1]);g.objectives.forEach(o=>o.done=true);
       Object.assign(g.player,{bar:-1,x:g.mat.x+180,y:K_FLOOR-70,angle,tuck:0,vx:0,vy:180,momentum:0});g.ragdoll.reset(g.player);
@@ -328,4 +329,14 @@ test('landing assistance acts only inside the mat and an unassisted tilted landi
 });
 test('sandbox removes compulsory objectives and accepts a finish without visiting every bar',()=>{
  const g=new KaariPhysics(4);g.reset(4,{sandbox:true});assert.equal(g.objectives.length,0);g.active=true;Object.assign(g.player,{bar:-1,x:g.mat.x+200,y:K_FLOOR-60,vx:0,vy:180,angle:0});g.ragdoll.reset(g.player);for(let i=0;i<120&&!g.ended;i++)g.step(dt);assert.equal(g.success,true);assert.equal(g.visited.size,1);g.reset(4);assert.equal(g.sandbox,false);assert.equal(g.objectives.length,2);
+});
+
+test('trampolines launch forward on descending contact and do not retrigger on ascent',()=>{
+ for(const map of [6,11,13]){const g=new KaariPhysics(map),t=g.trampolines[0];g.active=true;Object.assign(g.player,{bar:-1,x:t.x+t.w/2,y:t.top-60,vy:300,vx:0,angle:0,momentum:0});g.ragdoll.reset(g.player);for(let i=0;i<20&&g.player.vy>=0;i++)g.step(dt);assert.equal(g.player.vy,-t.power);assert.equal(g.player.vx,t.forward);assert.equal(g.ended,false);const count=g.events.filter(e=>e.label==='BOING!').length;g.step(dt);assert.equal(g.events.filter(e=>e.label==='BOING!').length,count);assert.ok(t.pulse>0);}
+});
+test('moving bars carry a held player and contribute velocity on release',()=>{
+ const g=new KaariPhysics(11);g.active=true;g.player.bar=2;const b=g.bars[2],x=b.x;g.step(dt,{grip:true});assert.notEqual(b.x,x);assert.ok(Math.abs(Math.hypot(g.player.x-b.x,g.player.y-b.y)-g.player.radius)<.001);const p={...g.player},vx=b.vx,vy=b.vy;g.release();assert.ok(Math.abs(g.player.vx-(Math.cos(p.angle)*p.radius*p.omega+vx))<.001);assert.ok(Math.abs(g.player.vy-(-Math.sin(p.angle)*p.radius*p.omega+vy))<.001);
+});
+test('sandbox has no finish mat, boxes support jumps, and falls return to practice with score intact',()=>{
+ const g=new KaariPhysics(11);assert.equal(g.sandbox,true);g.active=true;g.score=123;g.checkpoint=2;const box=g.boxes[0];assert.equal(g.groundY(box.x+20),box.top);Object.assign(g.player,{bar:-1,x:box.x+box.w/2,y:box.top-56,angle:0,omega:0,vy:0,vx:0});g.ragdoll.reset(g.player);assert.equal(g.onLandingMat(),false);g.startLanding();for(let i=0;i<12;i++)g.step(dt,{tuck:true});g.step(dt,{});assert.ok(g.player.vy<0);assert.equal(g.ended,false);g.finish(false);for(let i=0;i<220;i++)g.step(dt);assert.equal(g.ended,false);assert.equal(g.score,123);assert.equal(g.player.bar,2);assert.ok(g.events.some(e=>e.type==='respawn'));
 });

diff --git a/index.html b/index.html
@@ -22,7 +22,7 @@
       <button id="help-toggle" class="text-button" aria-expanded="false">How to play <span>＋</span></button>
       <div id="help" hidden><div class="keyboard-help"><p><kbd>SPACE</kbd> Hold to grip · release to jump</p><p><kbd>↓ / S</kbd> Hold to tuck · release to straighten</p><p><kbd>← / →</kbd> Twist in the air (also A / D)</p><p><kbd>↑</kbd> Grab both ankles <kbd>E</kbd> Signature trick <kbd>B</kbd> Bruno bomb <kbd>F</kbd> Death dive (unlock in chapter 3)</p><p><kbd>ESC</kbd> Pause <kbd>R</kbd> Retry</p></div><div class="touch-help"><p><b>Right thumb: GRIP</b><br>Hold to catch a bar. Release to jump.</p><p><b>Left thumb: TUCK</b><br>Hold to curl up. Release to straighten.</p><p><b>↶ / ↷</b> Hold to twist in the air. Combine with a flip!</p><p><b>TRICK</b> Hold your signature trick. Check your character's instructions.</p><p>Use several buttons together. Landscape works too.</p></div><p>Water jumps: visit both bars, trick, then land in the water. A straight entry adds 200 points.</p><p>Trick + new bar = COMBO! Chain trick jumps for up to ×6 points. A plain jump or an old bar breaks the chain.</p><p>Tuck at the bottom of the swing; extend near the top.</p><p>Outside the landing mat there is no landing assist. Keep your body upright and your spin slow. If you stick it, recover: tap TUCK for less than 0.6 s, then release to bounce. Hold GRIP to catch the next bar.</p><p>Finish the course and meet its score target to unlock the next chapter. Coins and purchases are saved in this browser.</p></div>
     </div>
-    <div class="map-picker"><div class="map-heading"><span><span id="mode-name">STORY</span> <span id="map-counter">01 / 11</span></span><button id="mode-toggle" class="mode-toggle" aria-label="Sandbox unlocks after completing every story chapter" disabled>SANDBOX 🔒</button><span id="menu-best">BEST 0</span></div>
+    <div class="map-picker"><div class="map-heading"><span><span id="mode-name">STORY</span> <span id="map-counter">01 / 11</span></span><span id="menu-best">BEST 0</span></div>
       <div class="chapter-brief"><strong id="chapter-title"></strong><span id="chapter-goal"></span><p id="chapter-story"></p></div>
       <div class="map-carousel" role="region" aria-label="Course selection" aria-roledescription="carousel">
         <div id="map-track" tabindex="0" aria-label="Swipe or use arrow keys to browse chapters"></div>

diff --git a/README.md b/README.md
@@ -169,6 +169,11 @@ Even chapters have required fire-ring or star objectives; Sauna Escape also requ
 
 ## Completion reward and physical contacts
 
-Clear all eleven story goals to unlock Sandbox in the menu. Free play includes all story environments plus Endless Recess (12 bars), Cloud Drop (a 1,200-unit cliff) and Orbit Playground (0.35× gravity). Sandbox removes compulsory objectives and bar visitation requirements, grants no campaign currency and never submits competitive leaderboard results.
+Clear all eleven story goals to unlock Sandbox in the menu. The three free-play parks are Endless Recess (spring beds, boxes and moving bars), Cloud Drop (a 1,200-unit cliff) and Orbit Playground (0.35× gravity). Sandbox removes compulsory objectives and bar visitation requirements, grants no campaign currency and never submits competitive leaderboard results.
 
 Airborne bodies and limbs collide with the crossbars using swept contact checks; a hit rebounds and breaks the combo. Gripping remains possible. Landing alignment and spin braking apply only over the landing mat. Outside it, a recovery needs a nearly upright body, low spin, modest sideways speed and a survivable downward speed. Ground balance outside the mat no longer automatically rights a tilted body.
+
+
+## Free playgrounds
+
+The three sandbox parks are at the left of the story carousel and remain completion rewards. They have no landing mat, route requirement or result screen. Falls and water entries automatically return to the last caught bar while keeping the session score. The parks contain raised vault boxes, forward-launching spring beds and rail-mounted moving bars; moving bars transfer their velocity on release. A spring bed also helps recover between the middle bars in Flip Academy. On sandbox ground, twist arrows move sideways and a quick tuck-release jumps.
